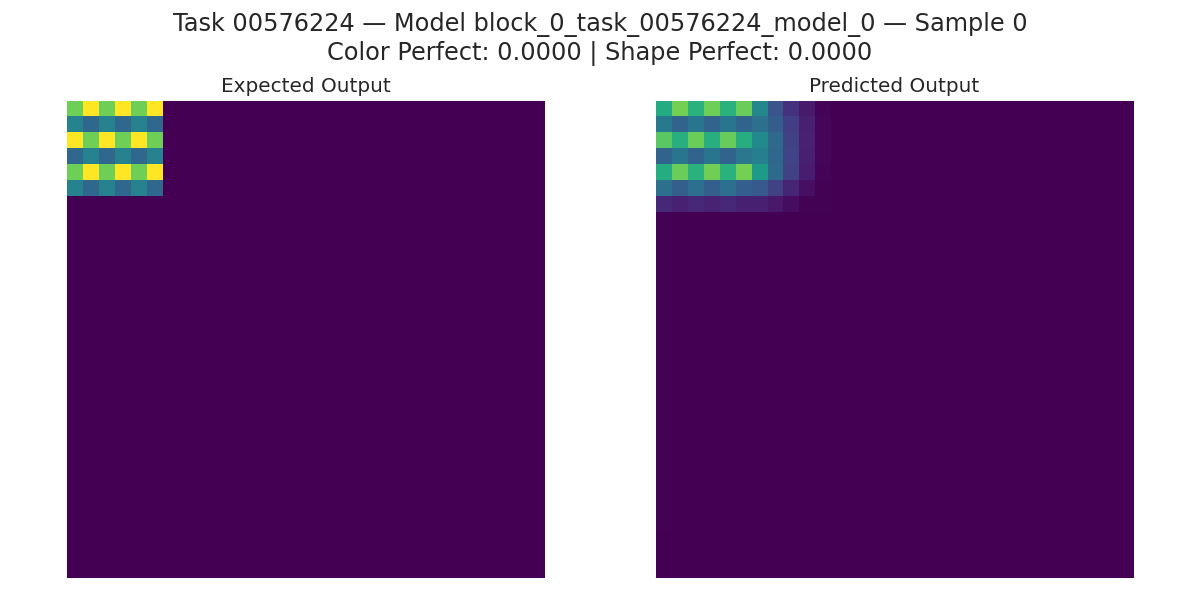
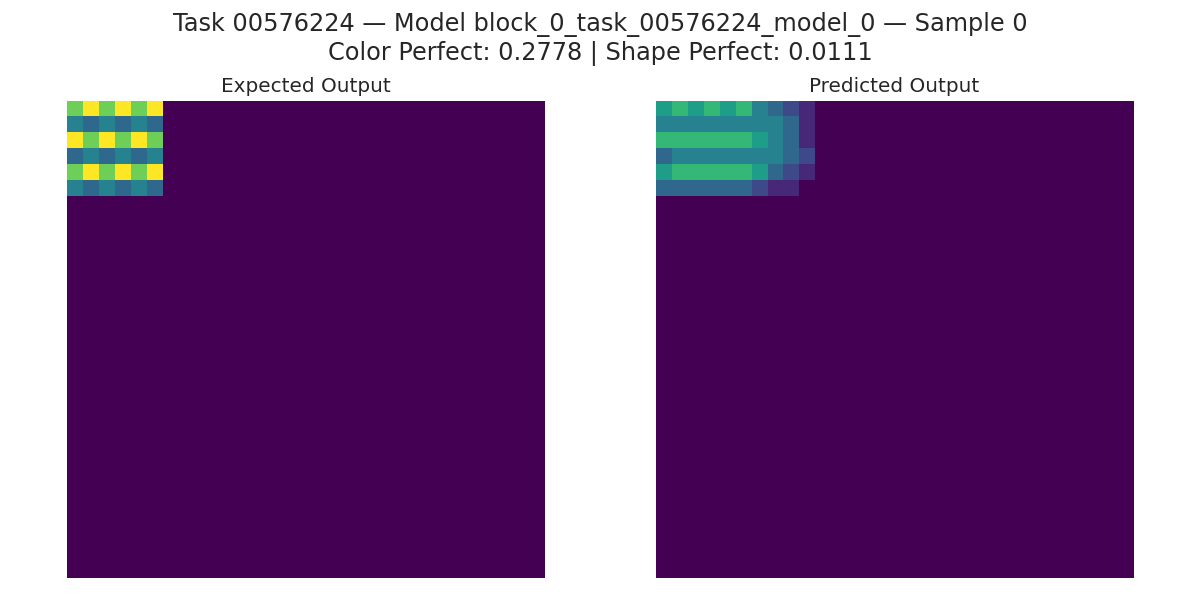
commit

Changed region(s): [[0.5242, 0.15, 0.6783, 0.36], [0.2775, 0.06, 0.74, 0.12]]

diff --git a/model_compile.py b/model_compile.py
@@ -7,7 +7,7 @@ os.environ['TF_CPP_MIN_LOG_LEVEL'] = '3'
 import warnings
 warnings.filterwarnings("ignore")
 
-def masked_loss(pad_value=-1.0, blur_penalty_weight=0.1, color_penalty_weight=0.1, valores_validos=None):
+def masked_loss(pad_value=-1.0, blur_penalty_weight=0.23, color_penalty_weight=0.33, ssim_weight=0.1, valores_validos=None):
     if valores_validos is None:
         valores_validos = tf.constant([0., 1., 2., 3., 4., 5., 6., 7., 8., 9.], dtype=tf.float32)
 
@@ -15,22 +15,23 @@ def masked_loss(pad_value=-1.0, blur_penalty_weight=0.1, color_penalty_weight=0.
         y_true = tf.cast(y_true, tf.float32)
         y_pred = tf.cast(y_pred, tf.float32)
 
-        # tf.debugging.check_numerics(y_pred, "y_pred tem NaN ou Inf")
-        # tf.debugging.check_numerics(y_true, "y_true tem NaN ou Inf")
-
+        # Garantir que ambos têm 5 dimensões: (batch, height, width, depth, channels)
         while y_true.shape.rank < 5:
             y_true = tf.expand_dims(y_true, axis=-1)
         while y_pred.shape.rank < 5:
             y_pred = tf.expand_dims(y_pred, axis=-1)
 
+        # Criar máscara para ignorar valores com pad_value
         mask = tf.not_equal(y_true, pad_value)
         mask = tf.cast(mask, tf.float32)
         y_true = tf.broadcast_to(y_true, tf.shape(y_pred))
         mask = tf.broadcast_to(mask, tf.shape(y_pred))
 
+        # MSE mascarado
         mse_loss = tf.square(y_true - y_pred) * mask
         mse = tf.reduce_sum(mse_loss) / tf.reduce_sum(mask)
 
+        # Penalidade por borramento usando kernel Laplaciano
         kernel_2d = tf.constant([[[0.], [1.], [0.]], [[1.], [-4.], [1.]], [[0.], [1.], [0.]]], dtype=tf.float32)
         kernel_2d = tf.reshape(kernel_2d, [3, 3, 1, 1])
         shape = tf.shape(y_pred)
@@ -39,18 +40,41 @@ def masked_loss(pad_value=-1.0, blur_penalty_weight=0.1, color_penalty_weight=0.
         conv = tf.nn.conv2d(y_flat, kernel_2d, strides=[1, 1, 1, 1], padding="SAME")
         blur_penalty = tf.reduce_mean(tf.square(conv))
 
-        if y_pred.shape.rank == 5:
-            y_color = tf.reshape(y_pred, [tf.shape(y_pred)[0], tf.shape(y_pred)[1], tf.shape(y_pred)[2]])
-        else:
-            y_color = y_pred
-
+        # Penalidade por distância de cor
+        y_color = tf.squeeze(y_pred, axis=-1)
         valores = tf.reshape(valores_validos, [1, 1, 1, -1])
         y_color_exp = tf.expand_dims(y_color, axis=-1)
         distances = tf.abs(y_color_exp - valores)
         min_dists = tf.reduce_min(distances, axis=-1)
         color_penalty = tf.reduce_mean(min_dists)
 
-        total_loss = mse + blur_penalty_weight * blur_penalty + color_penalty_weight * color_penalty
+        # Penalidade estrutural SSIM (ajuda com forma)
+        y_true_img = tf.squeeze(y_true, axis=-1)
+        y_pred_img = tf.squeeze(y_pred, axis=-1)
+
+        # Assegura que estão com 4 dimensões para tf.image.ssim
+        if y_true_img.shape.rank == 3:
+            y_true_img = tf.expand_dims(y_true_img, axis=-1)
+        if y_pred_img.shape.rank == 3:
+            y_pred_img = tf.expand_dims(y_pred_img, axis=-1)
+
+        # Apenas aplica SSIM se o tamanho for válido (min 11x11)
+        shape_check = tf.shape(y_true_img)
+        h_check = shape_check[1]
+        w_check = shape_check[2]
+        ssim_applicable = tf.logical_and(h_check >= 11, w_check >= 11)
+
+        def compute_ssim():
+            return 1.0 - tf.reduce_mean(tf.image.ssim(y_true_img, y_pred_img, max_val=9.0))
+
+        ssim_loss = tf.cond(ssim_applicable, compute_ssim, lambda: tf.constant(0.0))
+
+        # Perda total
+        total_loss = mse
+        total_loss += blur_penalty_weight * blur_penalty
+        total_loss += color_penalty_weight * color_penalty
+        total_loss += ssim_weight * ssim_loss
+
         return total_loss
 
     return loss_fn
@@ -58,12 +82,13 @@ def masked_loss(pad_value=-1.0, blur_penalty_weight=0.1, color_penalty_weight=0.
 def compile_model(model, lr=0.001):
     optimizer = Adam(learning_rate=lr, clipnorm=1.0)
     model.compile(
-                optimizer=optimizer, 
-                loss=masked_loss(
-                    blur_penalty_weight=0.23,
-                    pad_value=-1,
-                    color_penalty_weight=0.33
-                ), 
-                metrics=[tf.keras.metrics.MeanSquaredError()]
+        optimizer=optimizer,
+        loss=masked_loss(
+            blur_penalty_weight=0.23,
+            pad_value=-1,
+            color_penalty_weight=0.33,
+            ssim_weight=0.1
+        ),
+        metrics=[tf.keras.metrics.MeanSquaredError()]
     )
     return model

diff --git a/train_all.py b/train_all.py
@@ -5,7 +5,7 @@ import random
 import traceback
 import numpy as np
 import tensorflow as tf
-from tensorflow.keras.callbacks import EarlyStopping, ReduceLROnPlateau
+from tensorflow.keras.callbacks import EarlyStopping, ReduceLROnPlateau, ModelCheckpoint
 import matplotlib.pyplot as plt
 from metrics_utils import plot_prediction_debug
 from runtime_utils import log, to_numpy_safe
@@ -122,6 +122,15 @@ def training_process(
     for cycle in range(cycles):
         log(f"Cycle {cycle} — Modelo {n_model}")
         try:
+
+            checkpoint_callback = ModelCheckpoint(
+                filepath=f"checkpoint_model_{n_model}_block_{batch_index}.h5",
+                monitor="val_loss",
+                save_best_only=True,
+                save_weights_only=True,
+                verbose=1
+            )
+            
             model.fit(
                 x=X_train,
                 y=Y_train,
@@ -131,6 +140,7 @@ def training_process(
                 callbacks=[
                     ReduceLROnPlateau(monitor="val_loss", factor=factor, patience=2, min_lr=rl_lr),
                     # EarlyStopping(monitor="val_loss", patience=patience, restore_best_weights=True)
+                    checkpoint_callback,
                 ],
                 verbose=1,
             )
@@ -143,8 +153,16 @@ def training_process(
 
             log(f"[DEBUG] preds shape: {preds.shape}")
             log(f"[DEBUG] y_val shape: {Y_val.shape}")
+
             if preds.shape[-1] == 10:
                 preds = np.argmax(preds, axis=-1)
+
+            # Arredonda para baixo a grade 30x30x1 e limita entre 0 e 9
+            float_block = preds[0, :, :, :, 0]                     # (30, 30, 1)
+            rounded = tf.floor(float_block + 0.5)                  # Arredonda corretamente
+            clipped = tf.clip_by_value(rounded, 0, 9)              # Limita entre 0 e 9
+            preds[0, :, :, :, 0] = tf.cast(clipped, tf.int32)
+
 
             pixel_color_perfect, pixel_shape_perfect = plot_prediction_debug(
                 raw_input=X_train,
@@ -156,9 +174,7 @@ def training_process(
                 task_id=task_id,
             )
 
-            log(
-                f"🎯 Pixel Color Perfect: {pixel_color_perfect:.5f} | Shape Perfect: {pixel_shape_perfect:.5f}"
-            )
+            log(f"🎯 Pixel Color Perfect: {pixel_color_perfect:.5f} | Shape Perfect: {pixel_shape_perfect:.5f}")
 
             if pixel_color_perfect >= 0.999 and pixel_shape_perfect >= 0.999:
                 log(f"[✓] Modelo {n_model} treinado com sucesso no exemplo {batch_index}.")

diff --git a/SimuV1.py b/SimuV1.py
@@ -27,11 +27,12 @@ class SimuV1(Model):
         self.up2 = layers.UpSampling3D(size=(1, 2, 2))
         self.conv5 = layers.Conv3D(hidden_dim, (3, 3, 3), padding='same', activation='relu')
         self.bn5 = layers.BatchNormalization()
-        self.drop5 = layers.Dropout(0.2)
+        self.drop5 = layers.Dropout(0.1)  # Dropout reduzido para melhor definição
 
-        self.crop = layers.Cropping3D(cropping=((0, 0), (2, 2), (2, 2)))
-        self.conv_reduce_depth = tf.keras.layers.Conv3D(hidden_dim, kernel_size=(1, 1, 1), padding="same", activation="relu")
+        self.conv_reduce_depth = layers.Conv3D(1, (1, 1, 1), activation='relu')
+        self.refine = layers.Conv3D(hidden_dim, (1, 1, 1), activation='relu')  # Camada de refino
         self.output_layer = layers.Conv3D(output_channels, (1, 1, 1), activation='linear')
+        self.output_residual = layers.Add()
 
     def call(self, x, training=False):
         x = self.conv1(x)
@@ -58,9 +59,13 @@ class SimuV1(Model):
         x = self.bn5(x, training=training)
         x = self.drop5(x, training=training)
 
-        # x = self.crop(x)
         x = self.conv_reduce_depth(x)
-        x = self.output_layer(x)
+        refine = self.refine(x)  # nova camada de refino
+        out = self.output_layer(x)
+        x = self.output_residual([refine, out])
+
+
+
         # Ajuste de shape para (30, 30)
         x = x[:, :30, :30, :1, :1]
         # tf.debugging.check_numerics(x, "NaN ou Inf detectado após output_layer")

diff --git a/models_loader.py b/models_loader.py
@@ -5,13 +5,13 @@ from runtime_utils import log
 
 # Configurações de cada modelo: classe e hidden_dim
 MODEL_CONFIGS = {
-    0: (SimuV1, 32),   # jurada
-    1: (SimuV1, 48),   # jurada
-    2: (SimuV1, 64),   # jurada
-    3: (SimuV1, 32),   # advogada
-    4: (SimuV1, 32),   # juiza
-    5: (SimuV1, 64),   # suprema
-    6: (SimuV1, 32)    # promotor
+    0: (SimuV1, 64),   # jurada
+    1: (SimuV1, 128),   # jurada
+    2: (SimuV1, 128),   # jurada
+    3: (SimuV1, 64),   # advogada
+    4: (SimuV1, 64),   # juiza
+    5: (SimuV1, 256),   # suprema
+    6: (SimuV1, 128)    # promotor
 }
 
 _model_cache = {}

diff --git a/GrampyX.py b/GrampyX.py
@@ -225,9 +225,9 @@ def rodar_deliberacao_com_condicoes(parar_se_sucesso=True, max_iteracoes=100, co
             max_training_time=14400,
             cycles=150,
             epochs=150,
-            batch_size=8,
+            batch_size=2,
             patience=20,
-            rl_lr=4e-3,
+            rl_lr=1e-3,
             factor=0.65,
             len_trainig=1,
             pad_value=-1,

diff --git a/README.md b/README.md
@@ -1,54 +1,82 @@
-# 🧠 ClippyX: Neural Deliberative Court
+# 🧠 GrampyX: Neural Deliberative Court
 
-ClippyX is a symbolic architecture inspired by judicial systems, designed to solve problems through collaborative learning, with multiple neural agents performing distinct institutional roles.
+GrampyX is a symbolic architecture inspired by judicial systems, designed to solve problems through collaborative learning, with multiple neural agents performing distinct institutional roles.
 
 ---
 
 ## 🎯 Objective
+
 Simulate deliberation, conflict, and consensus among multiple neural models on tasks such as the ARC Challenge, modeling decision-making, trust, and authority.
 
 ---
 
 ## 👥 Institutional Structure
 
-- **Advocate**: initiates the thesis (prediction) based on the raw input. Trained with feedback from the Judge.
-- **Jurors 0, 1, 2**:
-  - **Juror 0**: has spatial behavioral noise (DropBlock)
-  - **Juror 1**: loyal to the advocate
-  - **Juror 2**: possesses "theory of mind": follows the advocate but adjusts if diverging from the Supreme
-- **Judge**: judges based on jurors and the advocate; learns from Supreme feedback
-- **Supreme Judge**: final authority; learns from all and validates the consensus
+* **Advocate**: initiates the thesis (prediction) based on the raw input. Trained with feedback from the Judge.
+* **Jurors 0, 1, 2**:
+
+  * **Juror 0**: has spatial behavioral noise (DropBlock)
+  * **Juror 1**: loyal to the advocate
+  * **Juror 2**: possesses "theory of mind": follows the advocate but adjusts if diverging from the Supreme
+* **Judge**: judges based on jurors and the advocate; learns from Supreme feedback
+* **Supreme Judge**: final authority; learns from all and validates the consensus
+* **Prosecutor**: challenges the Supreme by proposing an antithesis; adds dialectical tension to improve generalization.
 
 ---
 
 ## 🔁 Deliberation Cycle
 
-1. **Iteration 0**:
-   - All models (except the Supreme) make an initial prediction using the raw input.
-2. **Jurors** are trained based on the advocate, each applying their individual strategy.
-3. **Supreme Judge** learns from the collective votes of jurors + advocate + judge.
-4. **Judge** is updated with the Supreme's feedback.
-5. **Advocate** retrains their thesis based on the Judge’s verdict.
-6. The cycle repeats until consensus is achieved.
+1. **Initial Phase**:
+
+   * Jurors 0–4 predict on training data (X\_train).
+   * Their predictions are filtered to match valid output classes.
+
+2. **Supreme Phase**:
+
+   * Supreme aggregates predictions (jurors + judge + advocate) to form a symbolic consensus (mode).
+   * Supreme is trained on this consensus.
+
+3. **Prosecutor Phase**:
+
+   * Antithesis is generated by inverting the consensus.
+   * Prosecutor is trained on the antithesis.
+
+4. **Evaluation Phase**:
+
+   * Jurors 1–4, Supreme, and Prosecutor predict on test data (X\_test).
+   * After half the max iterations, Juror 0 updates its prediction on X\_train to match Supreme feedback.
+
+5. **Retraining Phase**:
+
+   * If Juror 0's prediction diverges significantly from Supreme's consensus, it is retrained on recolored consensus.
+
+6. **Consensus Evaluation**:
+
+   * A weighted symbolic consensus is calculated.
+   * If the tolerance is met, deliberation ends and Supreme's output is returned.
+   * Otherwise, the loop continues for max\_cycles.
 
 ---
 
 ## 📈 Trust and Evaluation
-- Each agent has a **symbolic trust score** based on its agreement with the Supreme.
-- An **adaptive trust system** penalizes models that frequently diverge from the final consensus.
+
+* Each agent has a **symbolic trust score** based on its agreement with the Supreme.
+* An **adaptive trust system** penalizes models that frequently diverge from the final consensus.
 
 ---
 
 ## 🧪 Application: ARC Challenge
-- Input: symbolic grid from ARC (e.g., `(1, 30, 30, 1, 4)`)
-- Output: per-pixel class prediction
-- Final consensus is defined by the Supreme Judge
-- Metrics for divergence, entropy, and trust are recorded at each iteration
+
+* Input: symbolic grid from ARC (e.g., `(1, 30, 30, 1, 4)`)
+* Output: per-pixel class prediction
+* Final consensus is defined by the Supreme Judge
+* Metrics for divergence, entropy, and trust are recorded at each iteration
 
 ---
 
 ## 🧬 Philosophy
-ClippyX is not just an ensemble — it's a simulation of a **symbolic deliberative system** with autonomous agents learning under authority, noise, and cognitive conflict.
+
+GrampyX is not just an ensemble — it's a simulation of a **symbolic deliberative system** with autonomous agents learning under authority, noise, and cognitive conflict.
 
 > "Justice is not immediate consensus, but the struggle for understanding through multiple perspectives."
 
@@ -56,37 +84,39 @@ ClippyX is not just an ensemble — it's a simulation of a **symbolic deliberati
 
 ## 🚀 Scalability
 
-ClippyX is designed with modularity and extensibility in mind. It can be applied in both individual model setups and collective multi-agent systems:
+GrampyX is designed with modularity and extensibility in mind. It can be applied in both individual model setups and collective multi-agent systems:
 
-- **Individual Mode**: A single agent (e.g., the Advocate or Supreme Judge) can be used for symbolic prediction, reasoning diagnostics, or as a pre-trained symbolic encoder in other workflows.
-- **Collective Mode**: All agents operate in a full deliberative court, exchanging symbolic knowledge iteratively. Ideal for tasks requiring consensus and agent interaction, such as the ARC Challenge in full block mode.
+* **Individual Mode**: A single agent (e.g., the Advocate or Supreme Judge) can be used for symbolic prediction, reasoning diagnostics, or as a pre-trained symbolic encoder in other workflows.
+* **Collective Mode**: All agents operate in a full deliberative court, exchanging symbolic knowledge iteratively. Ideal for tasks requiring consensus and agent interaction, such as the ARC Challenge in full block mode.
 
 Additional features:
-- Agents can be swapped, extended, or fine-tuned independently.
-- Supports more jurors or additional roles (e.g., revisors, auditors).
-- Symbolic state and trust logic are decoupled from network architecture.
-- Easily adapted to new symbolic tasks beyond ARC, including visual logic puzzles or symbolic reasoning games.. It can be applied in both individual model setups and collective multi-agent systems:
 
-- Agents can be swapped, extended, or fine-tuned independently.
-- Supports more jurors or additional roles (e.g., revisors, auditors).
-- Symbolic state and trust logic are decoupled from network architecture.
-- Easily adapted to new symbolic tasks beyond ARC, including visual logic puzzles or symbolic reasoning games.
+* Agents can be swapped, extended, or fine-tuned independently.
+* Supports more jurors or additional roles (e.g., revisors, auditors).
+* Symbolic state and trust logic are decoupled from network architecture.
+* Easily adapted to new symbolic tasks beyond ARC, including visual logic puzzles or symbolic reasoning games.
+
+---
 
 ## 🛠 Requirements
-- TensorFlow 2.14+
-- Numpy, Matplotlib, Seaborn
-- Python 3.10+
+
+* TensorFlow 2.14+
+* Numpy, Matplotlib, Seaborn
+* Python 3.10+
 
 ---
 
 ## 📁 Core Structure
-- `ClippyX.py` — main execution
-- `court_logic.py` — deliberation logic
-- `confidence_system.py` — symbolic trust system
-- `metrics_utils.py` — visualizations and analysis
-- `SimuV*.py` — neural model definitions by role
+
+* `GrampyX.py` — main execution
+* `court_logic.py` — deliberation logic
+* `confidence_system.py` — symbolic trust system
+* `metrics_utils.py` — visualizations and analysis
+* `court_utils.py` — utility functions for class extraction and preprocessing
+* `SimuV*.py` — neural model definitions by role
 
 ---
 
 ## 📜 License
+
 This project is protected from commercial use until official royalty release. See the repository license for more information.
